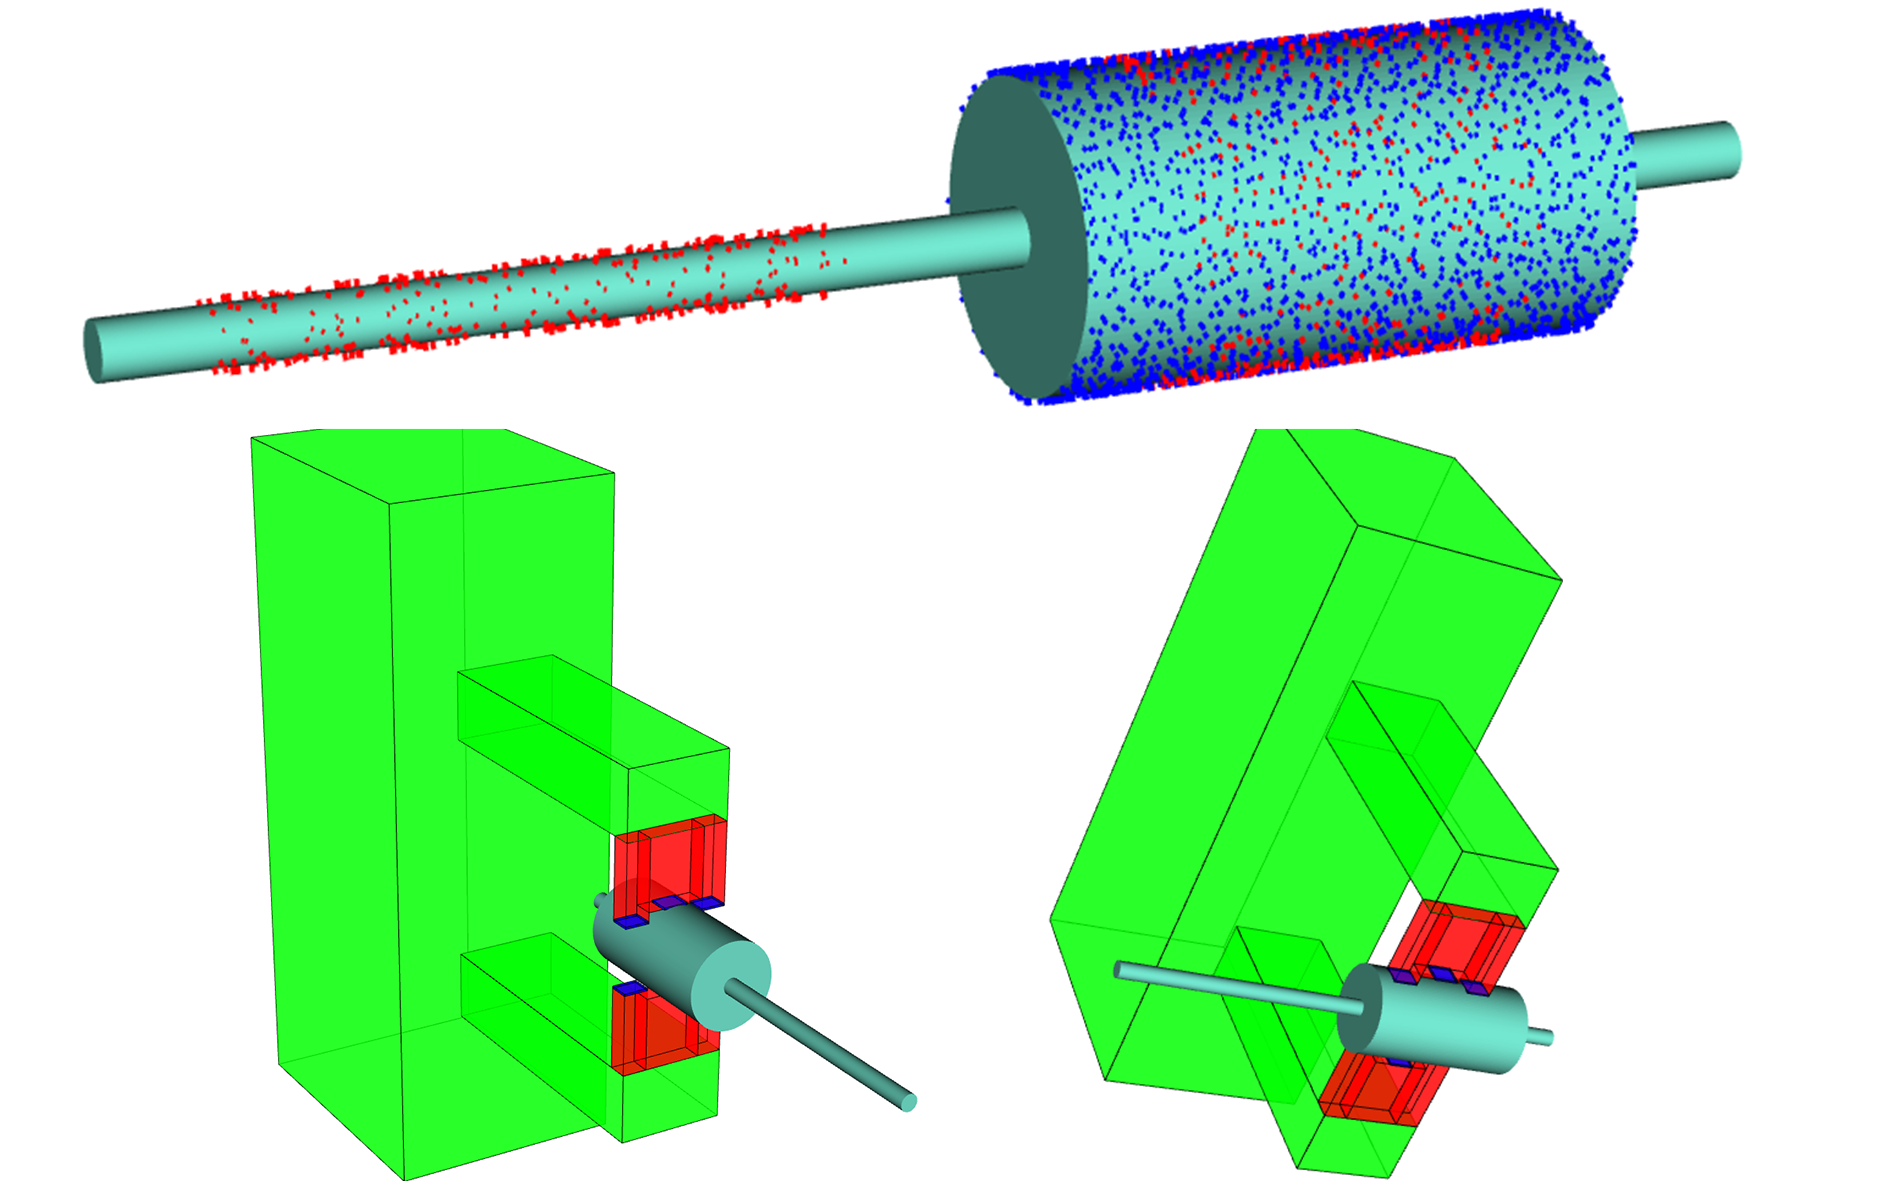
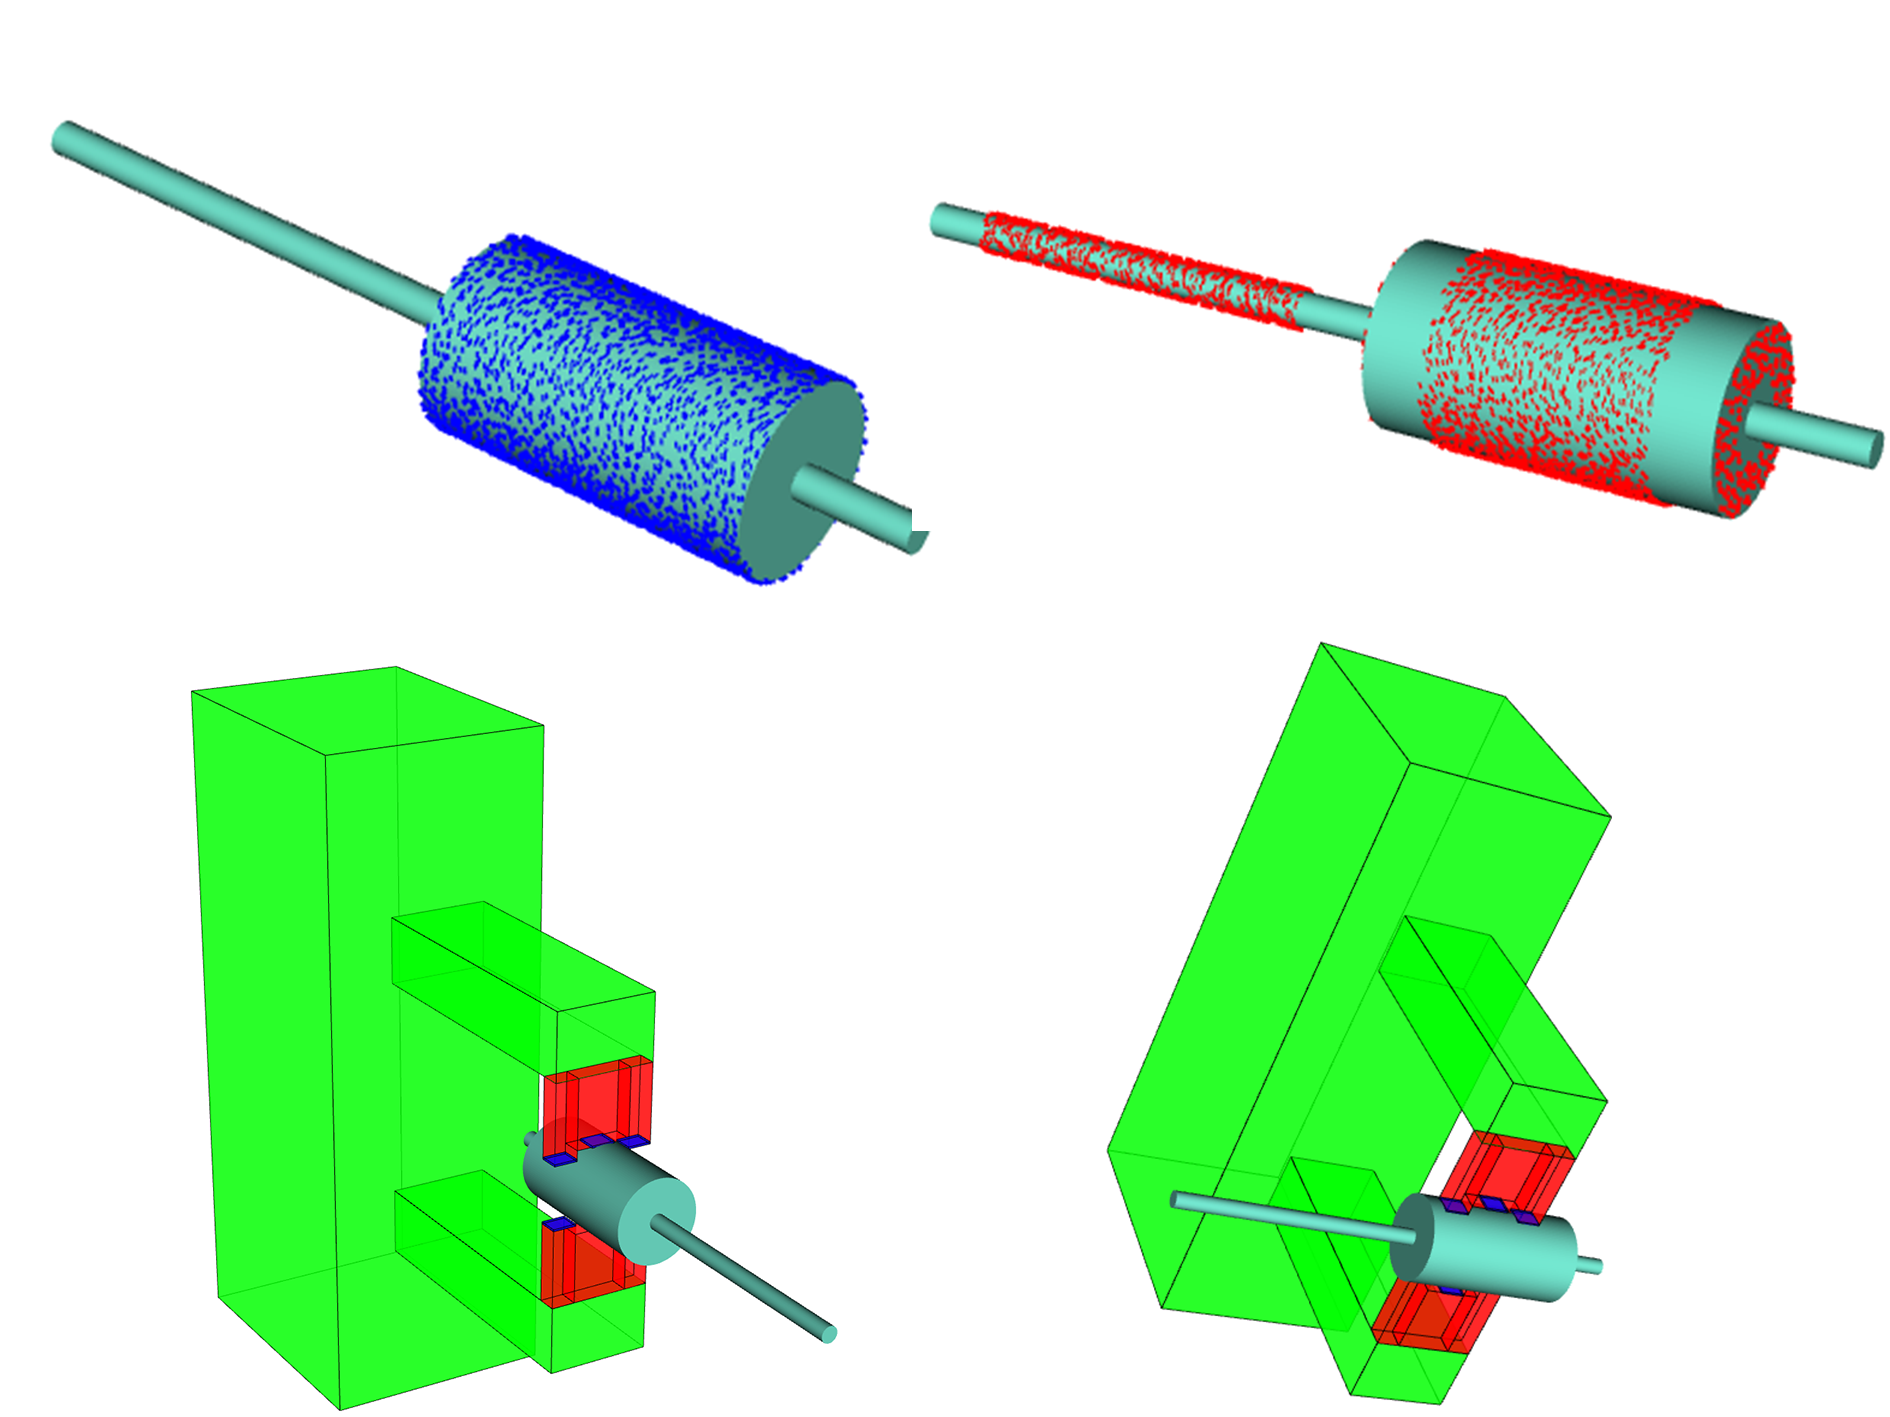
update

diff --git a/src/visualization.cpp b/src/visualization.cpp
@@ -215,31 +215,34 @@ void Visualizer::display_grasp(const pcl::PolygonMesh& mesh) {
       "cloud_normals");
   }
   if (config_.display_result_points == true) {
-    
-    vis3.addPointCloudNormals<pcl::PointXYZRGBNormal> (
-      gpg_.candid_result_cloud1_,
-      1, 0.5,
-      "cloud_normals_1");
-    vis3.setPointCloudRenderingProperties(
-      pcl::visualization::PCL_VISUALIZER_COLOR,
-      0, 0, 1,
-      "cloud_normals_1");
-    vis3.setPointCloudRenderingProperties(
-      pcl::visualization::PCL_VISUALIZER_LINE_WIDTH,
-      3,
-      "cloud_normals_1");
-    vis3.addPointCloudNormals<pcl::PointXYZRGBNormal> (
-      gpg_.candid_result_cloud2_,
-      1, 0.5,
-      "cloud_normals_2");
-    vis3.setPointCloudRenderingProperties(
-      pcl::visualization::PCL_VISUALIZER_COLOR,
-      1, 0, 0,
-      "cloud_normals_2");
-    vis3.setPointCloudRenderingProperties(
-      pcl::visualization::PCL_VISUALIZER_LINE_WIDTH,
-      3,
-      "cloud_normals_2");
+    if (config_.display_OnCenter == true) {
+      vis3.addPointCloudNormals<pcl::PointXYZRGBNormal> (
+        gpg_.candid_result_cloud1_,
+        1, 0.5,
+        "cloud_normals_1");
+      vis3.setPointCloudRenderingProperties(
+        pcl::visualization::PCL_VISUALIZER_COLOR,
+        0, 0, 1,
+        "cloud_normals_1");
+      vis3.setPointCloudRenderingProperties(
+        pcl::visualization::PCL_VISUALIZER_LINE_WIDTH,
+        3,
+        "cloud_normals_1");
+    } 
+    if (config_.display_OnFinger == true) {
+      vis3.addPointCloudNormals<pcl::PointXYZRGBNormal> (
+        gpg_.candid_result_cloud2_,
+        1, 0.5,
+        "cloud_normals_2");
+      vis3.setPointCloudRenderingProperties(
+        pcl::visualization::PCL_VISUALIZER_COLOR,
+        1, 0, 0,
+        "cloud_normals_2");
+      vis3.setPointCloudRenderingProperties(
+        pcl::visualization::PCL_VISUALIZER_LINE_WIDTH,
+        3,
+        "cloud_normals_2");
+    }
   }
   if (config_.display_cluster_boundary == true) {
     int line_id = 0;
@@ -268,36 +271,35 @@ void Visualizer::display_grasp(const pcl::PolygonMesh& mesh) {
   }
   if (config_.display_grasp == true) {
       int id_num = 0;
-      ///*     
-      for (auto & grasp : gpg_.grasp_cand_collision_free1_) {
-        //std::cout<<"maximum cost: "<<grasp.getContactArea()<<std::endl;
-        gpg_.CollisionCheck_.gripper_model_.drawGripper(
-          vis3,
-          grasp.hand_transform,
-          std::to_string(id_num++),
-          config_.grasp_color[0],
-          config_.grasp_color[1],
-          config_.grasp_color[2],
-          config_.gripper_opacity,
-          grasp.getDist()/2.0 - config_.gripper_params[9]);
-        if (id_num == 1)  break;
-      }
-      //*/
-      /*
-      for (auto & grasp : gpg_.grasp_cand_collision_free2_) {
-        //std::cout<<"maximum cost: "<<grasp.getContactArea()<<std::endl;
-        gpg_.CollisionCheck_.gripper_model_.drawGripper(
-          vis3,
-          grasp.hand_transform,
-          std::to_string(id_num++),
-          config_.grasp_color[0],
-          config_.grasp_color[1],
-          config_.grasp_color[2],
-          config_.gripper_opacity,
-          grasp.getDist()/2.0);
-        if (id_num == 1)  break;
-      }
-       */    
+      if (config_.display_OnCenter == true) {     
+        for (auto & grasp : gpg_.grasp_cand_collision_free1_) {
+          //std::cout<<"maximum cost: "<<grasp.getContactArea()<<std::endl;
+          gpg_.CollisionCheck_.gripper_model_.drawGripper(
+            vis3,
+            grasp.hand_transform,
+            std::to_string(id_num++),
+            config_.grasp_color[0],
+            config_.grasp_color[1],
+            config_.grasp_color[2],
+            config_.gripper_opacity,
+            grasp.getDist()/2.0 - config_.gripper_params[9]);
+          if (id_num == 2)  break;
+        }
+      } else if (config_.display_OnFinger == true) {
+        for (auto & grasp : gpg_.grasp_cand_collision_free2_) {
+          //std::cout<<"maximum cost: "<<grasp.getContactArea()<<std::endl;
+          gpg_.CollisionCheck_.gripper_model_.drawGripper(
+            vis3,
+            grasp.hand_transform,
+            std::to_string(id_num++),
+            config_.grasp_color[0],
+            config_.grasp_color[1],
+            config_.grasp_color[2],
+            config_.gripper_opacity,
+            grasp.getDist()/2.0);
+          if (id_num == 1)  break;
+        }
+      }    
       
        /*   
       vtkSmartPointer<vtkPoints> points_ = vtkSmartPointer<vtkPoints>::New();

diff --git a/include/pgfat/yaml_config.h b/include/pgfat/yaml_config.h
@@ -32,6 +32,8 @@ struct YAMLConfig
     display_sample_points = yamlnode["display_sample_points"].as<bool>();
     display_result_points = yamlnode["display_result_points"].as<bool>();
     display_grasp = yamlnode["display_grasp"].as<bool>();
+    display_OnCenter = yamlnode["display_OnCenter"].as<bool>();
+    display_OnFinger = yamlnode["display_OnFinger"].as<bool>();
     display_cluster_boundary = yamlnode["display_cluster_boundary"].as<bool>();
         
     attach_coordination = yamlnode["attach_coordination"].as<bool>();
@@ -70,6 +72,8 @@ struct YAMLConfig
   bool display_sample_points;
   bool display_result_points;
   bool display_grasp;
+  bool display_OnCenter;
+  bool display_OnFinger;
   bool attach_coordination;
   bool display_cluster_boundary;
 

diff --git a/src/grasp_point_generator.cpp b/src/grasp_point_generator.cpp
@@ -201,7 +201,7 @@ void GraspPointGenerator::makePair(
 bool GraspPointGenerator::collisionCheck(GraspData &grasp, const int &mode) {
   if (mode == 1) {
     // contact position in center   
-    if (grasp.getDist()/2 > 2 * config_.gripper_params[9]) {
+    if (grasp.getDist() > 2 * config_.gripper_params[9]) {
       // distance between two points must be larger than minimum     
       double totalCost = CollisionCheck_.isCollide(grasp.hand_transform, mode,
                                                    grasp.getDist()/2.0 - config_.gripper_params[9] + 0.001);
